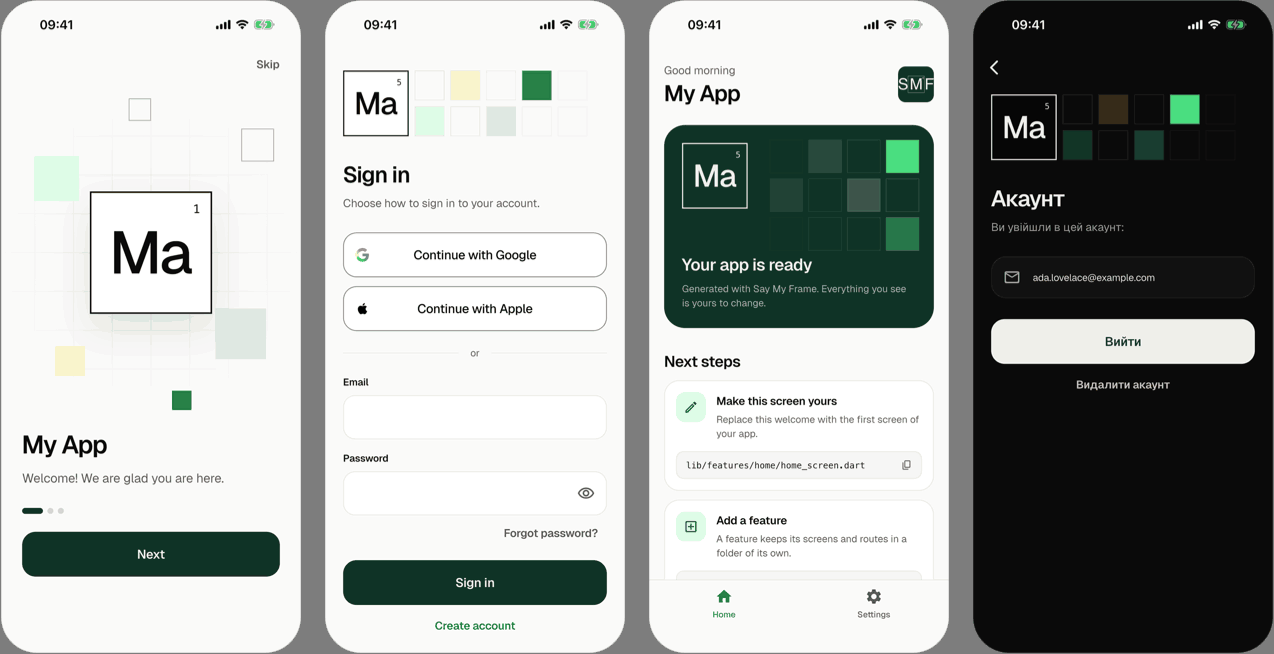
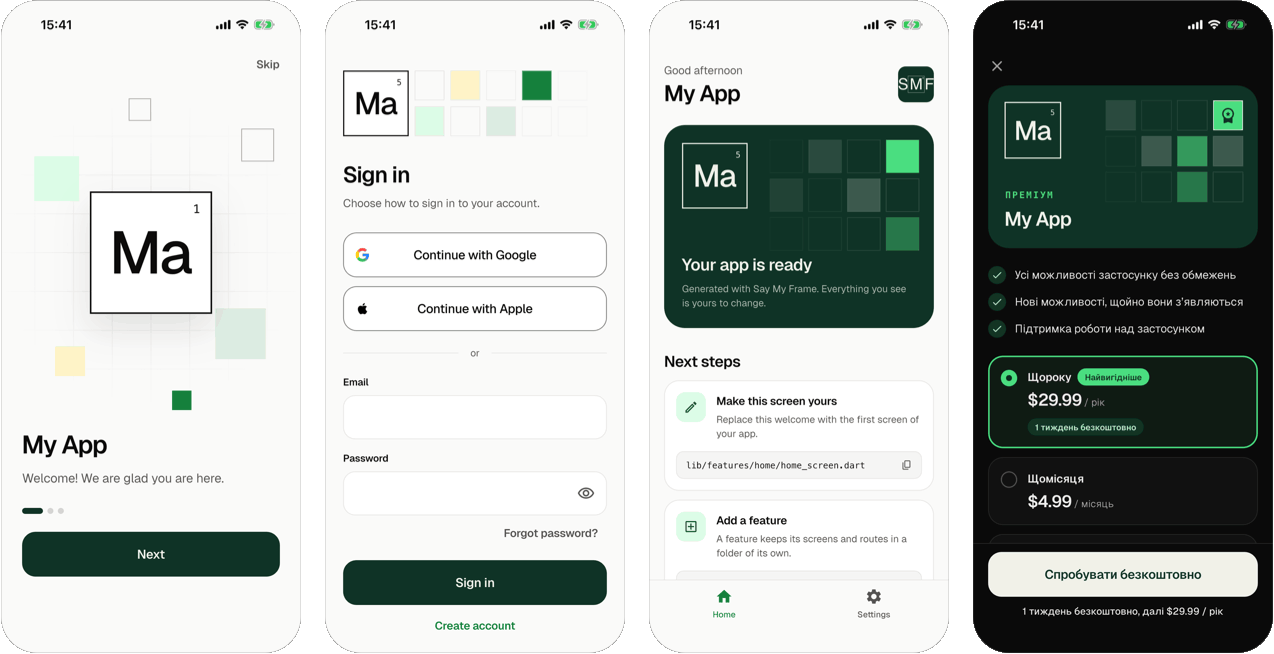
docs(cli): show the recordings of 0.7 in the READMEs and on pub.dev, and list dart_define, revenuecat and paywall (#276)

diff --git a/README.md b/README.md
@@ -12,13 +12,13 @@
 
 Say My Frame (SMF) generates Flutter apps from independent modules. You pick what the app needs, such as a router, tabs at the bottom, sign-in, dependency injection, a state manager, Firebase or a start screen, and `smf create` generates a Flutter project in which these parts already work together. The project does not depend on SMF at run time, so its code is yours from the first commit.
 
-![smf create in a terminal: it asks for the app name and the modules, among them Google sign-in, Sign in with Apple, the onboarding and the notifications, adds the modules that the chosen ones need, such as go_router, the settings screen and Firebase Authentication, asks who may use the app without an account, and generates a Flutter app with an onboarding, a start screen, sign-in with email, Google and Apple, tabs at the bottom, a theme, two languages, notifications, get_it and BLoC](https://doc.saymyframe.com/demo/0.6/smf_create.gif)
+![smf create in a terminal: it asks for the app name and the modules, among them the paywall, Google sign-in, Sign in with Apple, the onboarding and the notifications, adds the modules that the chosen ones need, such as go_router, the settings screen, Firebase Authentication and RevenueCat, asks who may use the app without an account, and generates a Flutter app with an onboarding, a start screen, sign-in with email, Google and Apple, a paywall, tabs at the bottom, a theme, two languages, notifications, get_it and BLoC](https://doc.saymyframe.com/demo/0.7/smf_create.gif)
 
-With the modules `onboarding`, `sign_in`, `google_sign_in`, `apple_sign_in`, `home`, `bottom_tabs`, `material_theme`, `gen_l10n` and `local_notifications`, the app opens on an onboarding that asks for the permission to show notifications, and then asks the user to sign in with Google, with Apple on iOS or with an email address. It has a start screen, an account screen, a settings screen with a theme mode, a language and the notifications, and a light and a dark theme:
+With the modules `onboarding`, `sign_in`, `google_sign_in`, `apple_sign_in`, `paywall`, `home`, `bottom_tabs`, `material_theme`, `gen_l10n` and `local_notifications`, the app opens on an onboarding that asks for the permission to show notifications and offers premium access, and then asks the user to sign in with Google, with Apple on iOS or with an email address. It has a start screen, an account screen, a paywall with the plans of a RevenueCat offering, a settings screen with the subscription, a theme mode, a language and the notifications, and a light and a dark theme:
 
-![The app that smf create generates, on a phone: the onboarding, the sign-in with Google, Apple and an email address, the start screen, and the account screen in the dark theme and in Ukrainian](https://doc.saymyframe.com/demo/0.6/app_look.png)
+![The app that smf create generates, on a phone: the onboarding, the sign-in with Google, Apple and an email address, the start screen, and the paywall in the dark theme and in Ukrainian](https://doc.saymyframe.com/demo/0.7/app_look.png)
 
-`sign_in` needs a Firebase project for its accounts. The other modules of this app need none.
+`sign_in` needs a Firebase project for its accounts, and `paywall` a RevenueCat project for its plans. The other modules of this app need neither.
 
 SMF generates apps for Flutter 3.44 or newer and Dart 3.12 or newer. It is tested on macOS, Linux and Windows.
 
@@ -86,6 +86,7 @@ smf create my_app --org com.example -m home,bottom_tabs,get_it,bloc --no-input
 | [`get_it`](https://doc.saymyframe.com/modules/get-it) | Dependency injection: the services of the modules, registered in get_it. |
 | [`event_bus`](https://doc.saymyframe.com/modules/event-bus) | Events between parts of the app that do not know each other, with event_bus. |
 | [`shared_preferences`](https://doc.saymyframe.com/modules/shared-preferences) | The settings of the app that are no secret, such as the theme mode, remembered between its launches with shared_preferences. |
+| [`dart_define`](https://doc.saymyframe.com/modules/dart-define) | The values that you fill in after generation, such as the public key of a service, in `.env`, which the app reads with `--dart-define-from-file`. |
 | [`local_notifications`](https://doc.saymyframe.com/modules/local-notifications) | Notifications with flutter_local_notifications: a notification now or at about a time to come, the permission to show them, and the taps on them. |
 | [`firebase_core`](https://doc.saymyframe.com/modules/firebase-core) | Firebase, set up with `flutterfire configure` after generation. |
 | [`firebase_crashlytics`](https://doc.saymyframe.com/modules/firebase-crashlytics) | Crash reporting with Firebase Crashlytics. |
@@ -95,6 +96,8 @@ smf create my_app --org com.example -m home,bottom_tabs,get_it,bloc --no-input
 | [`google_sign_in`](https://doc.saymyframe.com/modules/google-sign-in) | Google sign-in on Android and iOS, a way to sign in next to email for the provider of sign-in, such as `firebase_auth`. |
 | [`apple_sign_in`](https://doc.saymyframe.com/modules/apple-sign-in) | Sign in with Apple on iOS, a way to sign in next to email for the provider of sign-in, such as `firebase_auth`. |
 | [`sign_in`](https://doc.saymyframe.com/modules/sign-in) | Screens of sign-in, sign-up and password reset with an email address and a password, with a button for each way to sign in of the app, and the screen of the account with its entry on the settings screen, with BLoC or with Riverpod. |
+| [`revenuecat`](https://doc.saymyframe.com/modules/revenuecat) | Purchases with RevenueCat: premium access that the user buys with a plan of the default offering, and restores. |
+| [`paywall`](https://doc.saymyframe.com/modules/paywall) | A paywall that sells premium access with the plans of the purchases of the app, the screen of the subscription with its row on the settings screen, and a step of the onboarding, with BLoC or with Riverpod. |
 
 A module knows only the modules it depends on. A screen needs *a* router, not go_router, and analytics follows the screens of whichever router the app has. SMF calls these shared parts roles: a module that needs a role works with every module that provides it, and CI generates apps from many combinations of modules and checks each with `flutter analyze`. You can also write modules of your own; see [Extending SMF](https://doc.saymyframe.com/extending).
 

diff --git a/packages/smf_flutter_cli/README.md b/packages/smf_flutter_cli/README.md
@@ -2,13 +2,13 @@
 
 `smf` generates Flutter apps from independent modules. You pick what the app needs, such as a router, tabs at the bottom, sign-in, dependency injection, a state manager, Firebase or a start screen, and `smf create` generates a Flutter project in which these parts already work together. The project does not depend on SMF at run time, so its code is yours from the first commit.
 
-![smf create in a terminal: it asks for the app name and the modules, among them Google sign-in, Sign in with Apple, the onboarding and the notifications, adds the modules that the chosen ones need, such as go_router, the settings screen and Firebase Authentication, asks who may use the app without an account, and generates a Flutter app with an onboarding, a start screen, sign-in with email, Google and Apple, tabs at the bottom, a theme, two languages, notifications, get_it and BLoC](https://doc.saymyframe.com/demo/0.6/smf_create.gif)
+![smf create in a terminal: it asks for the app name and the modules, among them the paywall, Google sign-in, Sign in with Apple, the onboarding and the notifications, adds the modules that the chosen ones need, such as go_router, the settings screen, Firebase Authentication and RevenueCat, asks who may use the app without an account, and generates a Flutter app with an onboarding, a start screen, sign-in with email, Google and Apple, a paywall, tabs at the bottom, a theme, two languages, notifications, get_it and BLoC](https://doc.saymyframe.com/demo/0.7/smf_create.gif)
 
-With the modules `onboarding`, `sign_in`, `google_sign_in`, `apple_sign_in`, `home`, `bottom_tabs`, `material_theme`, `gen_l10n` and `local_notifications`, the app opens on an onboarding that asks for the permission to show notifications, and then asks the user to sign in with Google, with Apple on iOS or with an email address. It has a start screen, an account screen, a settings screen with a theme mode, a language and the notifications, and a light and a dark theme:
+With the modules `onboarding`, `sign_in`, `google_sign_in`, `apple_sign_in`, `paywall`, `home`, `bottom_tabs`, `material_theme`, `gen_l10n` and `local_notifications`, the app opens on an onboarding that asks for the permission to show notifications and offers premium access, and then asks the user to sign in with Google, with Apple on iOS or with an email address. It has a start screen, an account screen, a paywall with the plans of a RevenueCat offering, a settings screen with the subscription, a theme mode, a language and the notifications, and a light and a dark theme:
 
-![The app that smf create generates, on a phone: the onboarding, the sign-in with Google, Apple and an email address, the start screen, and the account screen in the dark theme and in Ukrainian](https://doc.saymyframe.com/demo/0.6/app_look.png)
+![The app that smf create generates, on a phone: the onboarding, the sign-in with Google, Apple and an email address, the start screen, and the paywall in the dark theme and in Ukrainian](https://doc.saymyframe.com/demo/0.7/app_look.png)
 
-`sign_in` needs a Firebase project for its accounts. The other modules of this app need none.
+`sign_in` needs a Firebase project for its accounts, and `paywall` a RevenueCat project for its plans. The other modules of this app need neither.
 
 SMF generates apps for Flutter 3.44 or newer and Dart 3.12 or newer. It is tested on macOS, Linux and Windows.
 
@@ -72,6 +72,7 @@ smf create my_app --org com.example -m home,bottom_tabs,get_it,bloc --no-input
 | [`get_it`](https://doc.saymyframe.com/modules/get-it) | Dependency injection: the services of the modules, registered in get_it. |
 | [`event_bus`](https://doc.saymyframe.com/modules/event-bus) | Events between parts of the app that do not know each other, with event_bus. |
 | [`shared_preferences`](https://doc.saymyframe.com/modules/shared-preferences) | The settings of the app that are no secret, such as the theme mode, remembered between its launches with shared_preferences. |
+| [`dart_define`](https://doc.saymyframe.com/modules/dart-define) | The values that you fill in after generation, such as the public key of a service, in `.env`, which the app reads with `--dart-define-from-file`. |
 | [`local_notifications`](https://doc.saymyframe.com/modules/local-notifications) | Notifications with flutter_local_notifications: a notification now or at about a time to come, the permission to show them, and the taps on them. |
 | [`firebase_core`](https://doc.saymyframe.com/modules/firebase-core) | Firebase, set up with `flutterfire configure` after generation. |
 | [`firebase_crashlytics`](https://doc.saymyframe.com/modules/firebase-crashlytics) | Crash reporting with Firebase Crashlytics. |
@@ -81,6 +82,8 @@ smf create my_app --org com.example -m home,bottom_tabs,get_it,bloc --no-input
 | [`google_sign_in`](https://doc.saymyframe.com/modules/google-sign-in) | Google sign-in on Android and iOS, a way to sign in next to email for the provider of sign-in, such as `firebase_auth`. |
 | [`apple_sign_in`](https://doc.saymyframe.com/modules/apple-sign-in) | Sign in with Apple on iOS, a way to sign in next to email for the provider of sign-in, such as `firebase_auth`. |
 | [`sign_in`](https://doc.saymyframe.com/modules/sign-in) | Screens of sign-in, sign-up and password reset with an email address and a password, with a button for each way to sign in of the app, and the screen of the account with its entry on the settings screen, with BLoC or with Riverpod. |
+| [`revenuecat`](https://doc.saymyframe.com/modules/revenuecat) | Purchases with RevenueCat: premium access that the user buys with a plan of the default offering, and restores. |
+| [`paywall`](https://doc.saymyframe.com/modules/paywall) | A paywall that sells premium access with the plans of the purchases of the app, the screen of the subscription with its row on the settings screen, and a step of the onboarding, with BLoC or with Riverpod. |
 
 A module knows only the modules it depends on. A screen needs *a* router, not go_router, and analytics follows the screens of whichever router the app has. SMF calls these shared parts roles: a module that needs a role works with every module that provides it. You can also write modules of your own, and a command of your own with them; see [Extending SMF](https://doc.saymyframe.com/extending).
 
